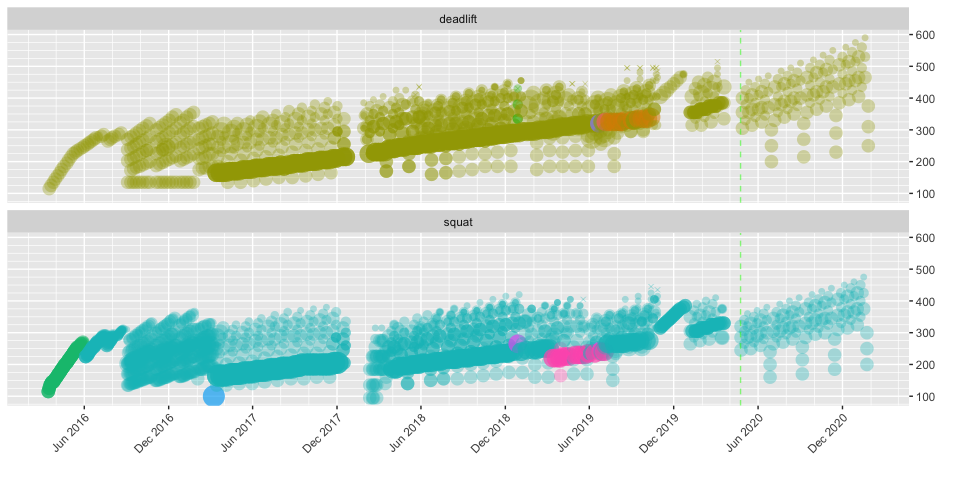
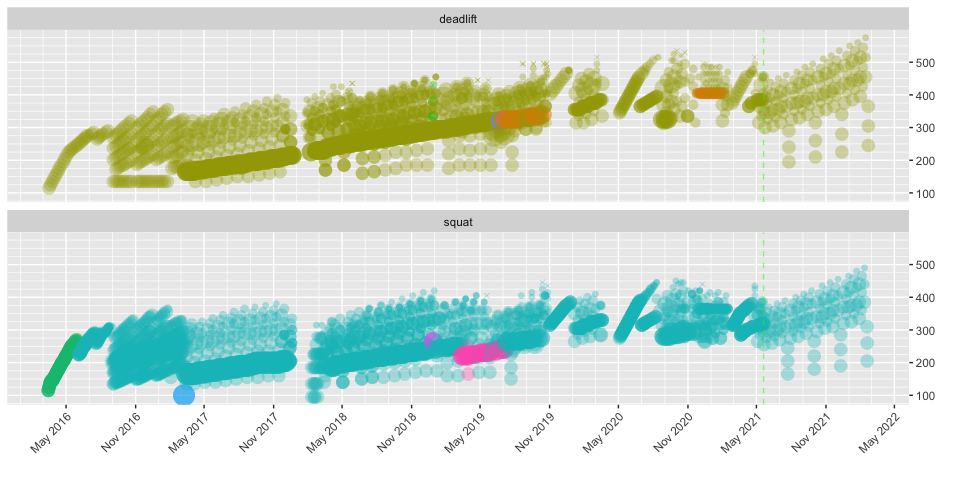
Fix rep PR bug

diff --git a/README.md b/README.md
@@ -1,7 +1,7 @@
 rweighlighting
 ================
 Nathan Chaney
-April 24, 2020
+May 20, 2021
 
 # Introduction
 
@@ -27,17 +27,19 @@ header row, as follows:
 weightlifting.log <- load_csv_data(datadir = my.datadir) %>% as_tibble()
 ```
 
-The function creates a data table with one set per row, as
-follows:
+The function creates a data table with one set per row, as follows:
 
-| program             | date       | exercise       | equipment | variant | set | reps | weight |
-| :------------------ | :--------- | :------------- | :-------- | :------ | --: | ---: | -----: |
-| 2020-01\_5-3-1\_cut | 2020-03-19 | hyperextension | machine   | reverse |   1 |   15 |     90 |
-| 2020-01\_5-3-1\_cut | 2020-03-19 | hyperextension | machine   | reverse |   2 |   15 |     90 |
-| 2020-01\_5-3-1\_cut | 2020-03-19 | squat          | barbell   | low bar |   1 |    5 |    330 |
-| 2020-01\_5-3-1\_cut | 2020-03-19 | squat          | barbell   | low bar |   2 |    5 |    330 |
-| 2020-01\_5-3-1\_cut | 2020-03-19 | squat          | barbell   | low bar |   3 |    5 |    330 |
-| 2020-01\_5-3-1\_cut | 2020-03-19 | squat          | barbell   | low bar |   4 |    5 |    330 |
+    #> Warning: tail(., addrownums = V) is deprecated.
+    #> Use tail(., keepnums = V) instead.
+
+| program      | date       | exercise | equipment | variant      | set | reps | weight |
+| :----------- | :--------- | :------- | :-------- | :----------- | --: | ---: | -----: |
+| 2021-05\_531 | 2021-05-19 | deadlift | barbell   | conventional |   5 |    2 |    455 |
+| 2021-05\_531 | 2021-05-19 | squat    | barbell   | low bar      |   1 |    5 |    320 |
+| 2021-05\_531 | 2021-05-19 | squat    | barbell   | low bar      |   2 |    5 |    320 |
+| 2021-05\_531 | 2021-05-19 | squat    | barbell   | low bar      |   3 |    5 |    320 |
+| 2021-05\_531 | 2021-05-19 | squat    | barbell   | low bar      |   4 |    5 |    320 |
+| 2021-05\_531 | 2021-05-19 | squat    | barbell   | low bar      |   5 |    5 |    320 |
 
 # Visualizing Data
 
@@ -104,23 +106,24 @@ difficulty.
 
 For the lifter identified above, the package provides the following of a
 new program based on Jim Wendler’s basic 3-week 5-3-1 program (this is
-the first week
-only):
+the first week only):
 
-| cycle | day | exercise | equipment | variant      | set | reps | percentage | training\_max | weight | max.reps |
-| ----: | --: | :------- | :-------- | :----------- | --: | ---: | ---------: | ------------: | -----: | -------: |
-|     1 |   1 | bench    | barbell   | flat         |   1 |    5 |       0.65 |         246.5 |    160 |       10 |
-|     1 |   1 | bench    | barbell   | flat         |   2 |    5 |       0.75 |         246.5 |    185 |       12 |
-|     1 |   1 | bench    | barbell   | flat         |   3 |    5 |       0.85 |         246.5 |    210 |        9 |
-|     1 |   2 | squat    | barbell   | low bar      |   1 |    5 |       0.65 |         378.7 |    245 |        8 |
-|     1 |   2 | squat    | barbell   | low bar      |   2 |    5 |       0.75 |         378.7 |    285 |        8 |
-|     1 |   2 | squat    | barbell   | low bar      |   3 |    5 |       0.85 |         378.7 |    320 |        5 |
-|     1 |   4 | press    | barbell   | overhead     |   1 |    5 |       0.65 |         187.8 |    120 |        8 |
-|     1 |   4 | press    | barbell   | overhead     |   2 |    5 |       0.75 |         187.8 |    140 |        8 |
-|     1 |   4 | press    | barbell   | overhead     |   3 |    5 |       0.85 |         187.8 |    160 |        6 |
-|     1 |   5 | deadlift | barbell   | conventional |   1 |    5 |       0.65 |         472.1 |    305 |        8 |
-|     1 |   5 | deadlift | barbell   | conventional |   2 |    5 |       0.75 |         472.1 |    355 |        8 |
-|     1 |   5 | deadlift | barbell   | conventional |   3 |    5 |       0.85 |         472.1 |    400 |        8 |
+    #> `summarise()` regrouping output by 'exercise', 'equipment', 'variant' (override with `.groups` argument)
+
+| cycle | day | date       | exercise | equipment | variant      | set | reps | percentage | training\_max | weight | max.reps |
+| ----: | --: | :--------- | :------- | :-------- | :----------- | --: | ---: | ---------: | ------------: | -----: | -------: |
+|     1 |   1 | 2021-05-21 | bench    | barbell   | flat         |   1 |    5 |       0.65 |         267.5 |    175 |       11 |
+|     1 |   1 | 2021-05-21 | bench    | barbell   | flat         |   2 |    5 |       0.75 |         267.5 |    200 |       11 |
+|     1 |   1 | 2021-05-21 | bench    | barbell   | flat         |   3 |    5 |       0.85 |         267.5 |    225 |       11 |
+|     1 |   2 | 2021-05-22 | squat    | barbell   | low bar      |   1 |    5 |       0.65 |         392.0 |    255 |        8 |
+|     1 |   2 | 2021-05-22 | squat    | barbell   | low bar      |   2 |    5 |       0.75 |         392.0 |    295 |        8 |
+|     1 |   2 | 2021-05-22 | squat    | barbell   | low bar      |   3 |    5 |       0.85 |         392.0 |    335 |        7 |
+|     1 |   4 | 2021-05-24 | press    | barbell   | overhead     |   1 |    5 |       0.65 |         199.9 |    130 |        9 |
+|     1 |   4 | 2021-05-24 | press    | barbell   | overhead     |   2 |    5 |       0.75 |         199.9 |    150 |        8 |
+|     1 |   4 | 2021-05-24 | press    | barbell   | overhead     |   3 |    5 |       0.85 |         199.9 |    170 |        8 |
+|     1 |   5 | 2021-05-25 | deadlift | barbell   | conventional |   1 |    5 |       0.65 |         460.9 |    300 |        8 |
+|     1 |   5 | 2021-05-25 | deadlift | barbell   | conventional |   2 |    5 |       0.75 |         460.9 |    345 |        8 |
+|     1 |   5 | 2021-05-25 | deadlift | barbell   | conventional |   3 |    5 |       0.85 |         460.9 |    390 |       10 |
 
 For convenience, we can also add the maximum number of reps at each
 specific weight the trainee is supposed to lift. This assists with
@@ -134,7 +137,7 @@ potential for gains over time:
 
 ![](README-programming_sets_reps-1.png)<!-- -->
 
-The vertical green line represents today (currently 24 Apr 2020);
+The vertical green line represents today (currently 20 May 2021);
 projected performance following a new program is plotted to the right of
 the green line. Another feature displayed here is the ability to program
 deload weeks every so often – in this case after every 3 cycles. Note
@@ -144,12 +147,13 @@ supplemental work that may appear in historical data.
 The supported programs include:
 
     #> [1] "Novice Linear Progression"                      
-    #> [2] "4-Day Linear Progression"                       
+    #> [2] "4-Day Volume-Intensity Split"                   
     #> [3] "Madcow 5x5"                                     
     #> [4] "Wendler 5-3-1"                                  
     #> [5] "Wendler 5-3-1 Pyramid"                          
     #> [6] "Base 5-3-1, Bench 8-6-3"                        
-    #> [7] "Lower 5-3-1 Last Set First, Upper 8-6-3 Pyramid"
+    #> [7] "Lower 5-3-1, Upper 8-6-3, Last Set First"       
+    #> [8] "Lower 5-3-1 with 1 Backoff, Upper 8-6-3 Pyramid"
 
 It is desired that future versions of the package’s dashboard will
 permit creation of custom programs on an exercise-by-exercise basis.
